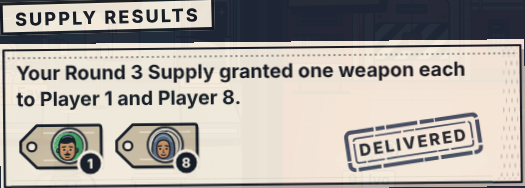
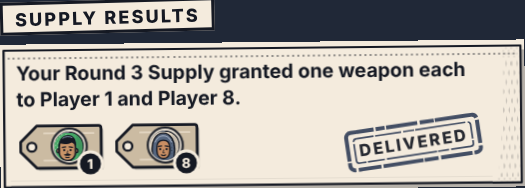
Hold only the slip's beat in its review frames
The first frame of a slip dropping into the card (beat-slip-0000ms.png)
showed the board and no slip: the capture held every animation at the
frame's time, the card's own slide-in among them, so at 0 ms the card
was still below the screen. The slip's frames now hold only the slip's
beat (the prototype's only parameter) and let the card finish opening,
so each frame shows the slip where it lands. Found while reviewing
slice 4's beat frames; only the capture's parameters changed.

Claude-Session: https://claude.ai/code/session_014QoCS4hvgzC5aZhp5aGjyH

diff --git a/docs/design/abilities-verification.md b/docs/design/abilities-verification.md
@@ -111,6 +111,17 @@ The Cracker's Rescue, the Blue and the Red Disabler's Disable, and the Supplier'
 
 **Not run, and what the checks do not prove.** Every picture is a desktop Chromium simulation: no real phone, screen reader, touch input, production integration or match. The strip's detail line and buttons keep their pixel size at twice the text size (the board-motion proposal, unchanged here); the slice 3 art in them keeps its size too.
 
+## A fix after slice 3: the slip's frames held the card
+
+Found while reviewing slice 4's beat frames: the first frame of a slip dropping into the card, `beat-slip-0000ms.png`, showed the board and no slip. The capture held every animation at the frame's time, the card's own slide-in among them, so at 0 ms the card was still below the screen and the picture showed what lay under it. The slip's frames now hold only the slip's beat and let the card finish opening (the prototype's `only` parameter), so each frame shows the slip where it lands: hidden at 0 ms, landing at 130 ms, at rest at 260 ms. Only the capture's parameters changed; the slip, its motion and the prototype did not.
+
+| Command | Result |
+| --- | --- |
+| `node design/tools/abilities-capture.mjs` | Passed: **114 pictures and 3 contact sheets, 0 with problems**. The two changed frames and the slice 3 contact sheet are committed; the other pictures differed from the committed ones only in rendering bytes and were kept as they were |
+| `node design/tools/abilities-check.mjs` | Passed: **8 of 8 checks** |
+| `node --test packages/design-tokens/test/abilities-check.test.mjs` | Passed: **38 of 38** |
+| `git diff --check` | Clean |
+
 ## What the checks assert, and what they do not
 
 - `check:abilities` (no browser): the kit is exactly what its recipes make from `source/dossier.svg`, in the drawing vocabulary and the neutral palette (no team, room or crew color), versioned, anchored and with its rights; the inventory names a treatment for every V1 role and every shared moment, each with five motion forms, and reads only view fields the approved contracts carry; the Insider's file sorts the candidates by seat before drawing them, draws each candidate with nothing of a role, keeps the role names one picture with one accessible name and never a list, swings the query tags together, colors only with tokens, draws art only behind loaded bundles, styles no candidate apart and draws its board cue on the own board only; the prototype loads the kit whatever the role, its hidden card holds nothing private, no production file refers to the prototype, every file carries the development-only mark; the review pictures were taken from the current art, pages and fixtures and measured clean; the inventory page is generated from the contract. Statically: it reads source text, so it proves what the code says, not what a browser draws.
